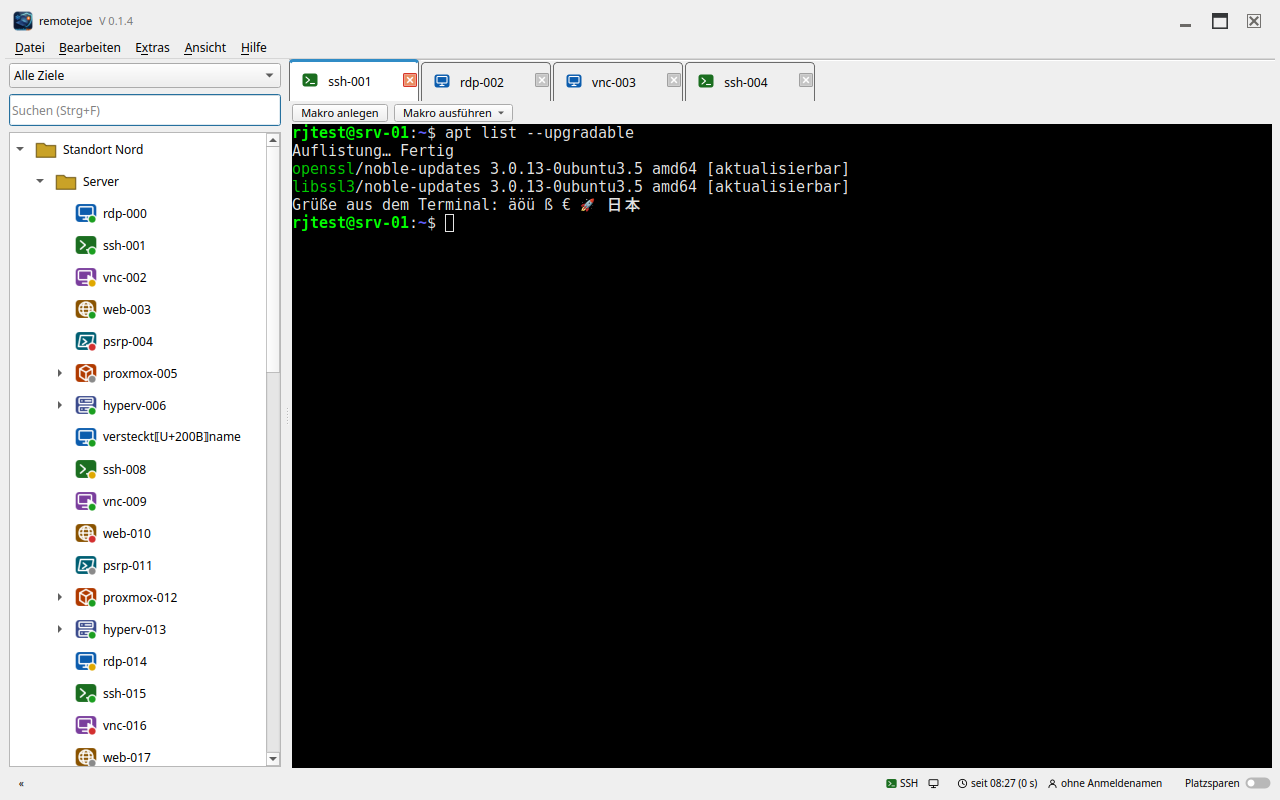
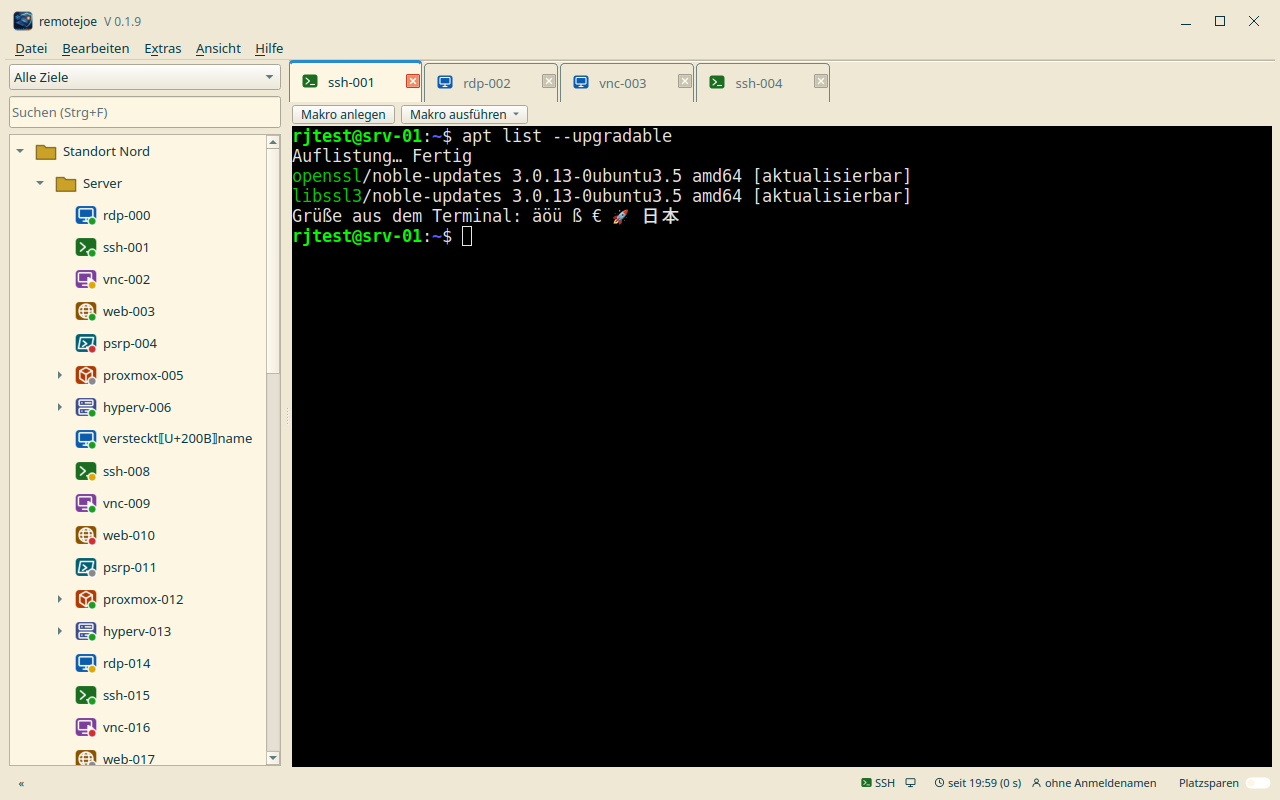
Doku-Bilder: Hauptfenster hell und dunkel (Catppuccin Macchiato) neu mit 0.1.9, Platzsparmodus mit und ohne Baum; Screenshot-Lauf wählt das Theme für das dunkle Bild (RJ_SHOT_DARK_THEME); README zeigt alle vier

diff --git a/crates/ui/tests/screenshots.rs b/crates/ui/tests/screenshots.rs
@@ -13,7 +13,7 @@ fn offscreen_screenshots_and_start_time() {
         .unwrap();
     let log = String::from_utf8_lossy(&out.stderr);
     assert!(out.status.success(), "{log}");
-    for f in ["hauptfenster-hell.png", "hauptfenster-dunkel.png", "suche.png", "hypervisor.png", "verbinden-zugangsdaten.png", "hostschluessel-unbekannt.png", "hostschluessel-geaendert.png", "import-vorschau.png", "patchday.png", "abgerissenes-fenster.png", "eigenschaften.png", "zugangsdaten-auswahl.png", "hinzufuegen-menue.png", "entsperren.png", "mehrere-ziele.png"] {
+    for f in ["hauptfenster-hell.png", "hauptfenster-dunkel.png", "hauptfenster-kompakt.png", "hauptfenster-kompakt-ohne-baum.png", "suche.png", "hypervisor.png", "verbinden-zugangsdaten.png", "hostschluessel-unbekannt.png", "hostschluessel-geaendert.png", "import-vorschau.png", "patchday.png", "abgerissenes-fenster.png", "eigenschaften.png", "zugangsdaten-auswahl.png", "hinzufuegen-menue.png", "entsperren.png", "mehrere-ziele.png"] {
         let len = std::fs::metadata(dir.path().join(f)).map(|m| m.len()).unwrap_or(0);
         assert!(len > 5000, "{f} fehlt oder ist leer ({len} Bytes)\n{log}");
     }

diff --git a/crates/ui/cpp/app.cpp b/crates/ui/cpp/app.cpp
@@ -75,9 +75,24 @@ void screenshots(MainWindow& w, const QString& dir)
 		pump(500);
 		save(&w, dir, QStringLiteral("normal-nach-kompakt.png"));
 	}
+	// Platzsparmodus als Dokumentationsbild.
+	w.setCompact(true);
+	pump(500);
+	save(&w, dir, QStringLiteral("hauptfenster-kompakt.png"));
+	w.setTreeVisible(false);
+	pump(500);
+	save(&w, dir, QStringLiteral("hauptfenster-kompakt-ohne-baum.png"));
+	w.setTreeVisible(true);
+	w.setCompact(false);
+	pump(500);
+	// Dunkles Bild mit Catppuccin Macchiato (Vorgabe für Bildschirmfotos, siehe appearance.rs).
+	qputenv("REMOTEJOE_THEME", "dark");
+	qputenv("RJ_SHOT_DARK_THEME", "eingebaut:catppuccin-macchiato");
 	w.applyTheme(true);
 	pump(300);
 	save(&w, dir, QStringLiteral("hauptfenster-dunkel.png"));
+	qunsetenv("RJ_SHOT_DARK_THEME");
+	qunsetenv("REMOTEJOE_THEME");
 	w.applyTheme(false);
 	w.setFilter(QStringLiteral("ssh-00"));
 	pump(300);

diff --git a/crates/ui/src/appearance.rs b/crates/ui/src/appearance.rs
@@ -99,6 +99,10 @@ pub fn palette_json(app: Option<&App>) -> Value {
     };
     // Vorgabe für Bildschirmfotos: Umgebungsvariable erzwingt ein Standardschema.
     if std::env::var_os("REMOTEJOE_THEME").is_some() {
+        // Bildschirmfotos: dunkles Bild auf Wunsch mit einem eingebauten Theme.
+        if let Some((dark, colors)) = std::env::var("RJ_SHOT_DARK_THEME").ok().filter(|_| dark_sys).and_then(|id| resolve(&id)) {
+            return fixed(dark, colors);
+        }
         return fixed(dark_sys, if dark_sys { DARK } else { LIGHT }.into());
     }
     let Some(a) = app.map(|a| &a.config.appearance) else { return system(dark_sys) };

diff --git a/README.md b/README.md
@@ -33,9 +33,17 @@ remotejoe bündelt alle Fernzugänge in einem schlanken, schnellen Programm:
   <br>
   <em>Hauptfenster (helles Farbschema, Demo-Daten)</em>
   <br><br>
-  <img src="docs/screenshots/hauptfenster-dunkel.png" alt="Hauptfenster im dunklen Farbschema" width="760">
+  <img src="docs/screenshots/hauptfenster-dunkel.png" alt="Hauptfenster im Farbschema Catppuccin Macchiato" width="760">
   <br>
-  <em>Hauptfenster (dunkles Farbschema, Demo-Daten)</em>
+  <em>Hauptfenster (Catppuccin Macchiato, Demo-Daten)</em>
+  <br><br>
+  <img src="docs/screenshots/hauptfenster-kompakt.png" alt="Platzsparmodus: Tabs in der Titelzeile, Baum sichtbar" width="760">
+  <br>
+  <em>Platzsparmodus (F10) mit Baum</em>
+  <br><br>
+  <img src="docs/screenshots/hauptfenster-kompakt-ohne-baum.png" alt="Platzsparmodus mit eingeklapptem Baum" width="760">
+  <br>
+  <em>Platzsparmodus mit eingeklapptem Baum (F9)</em>
 </p>
 
 ---
